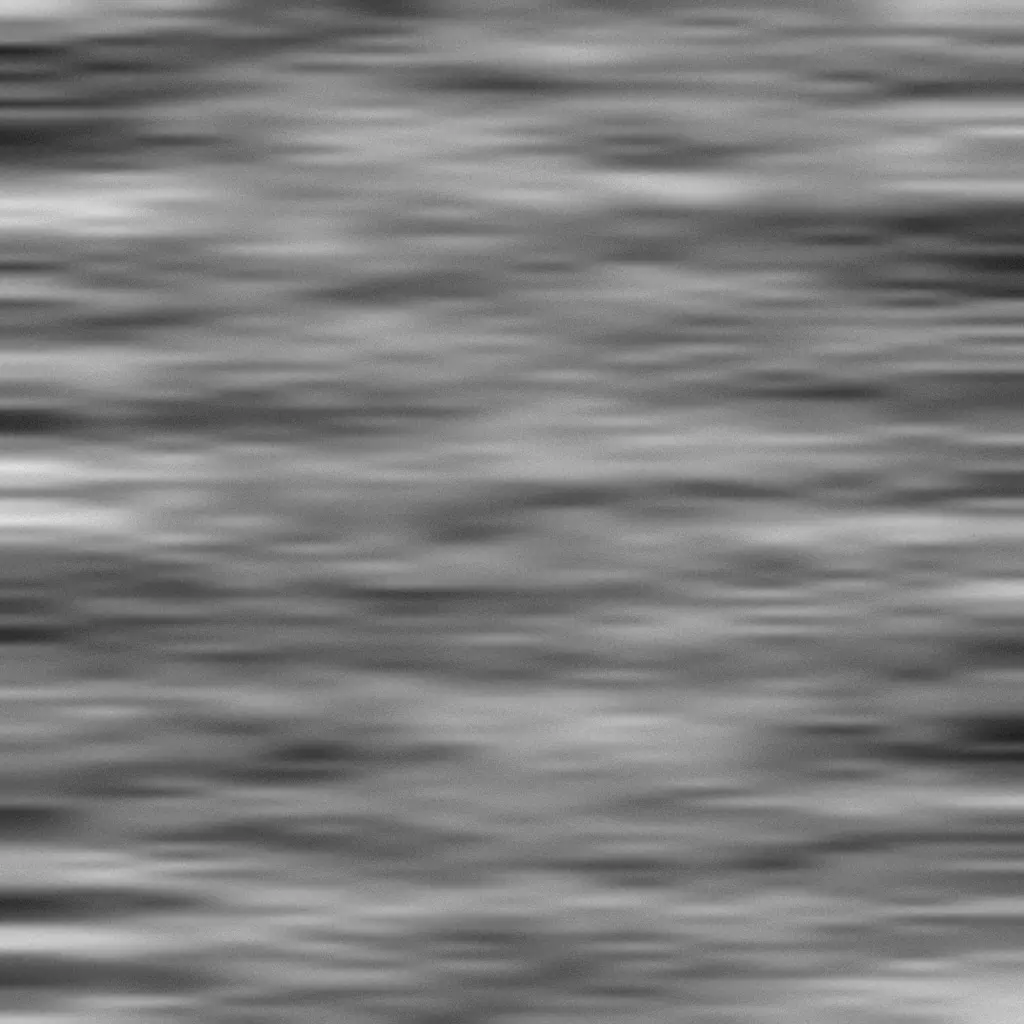
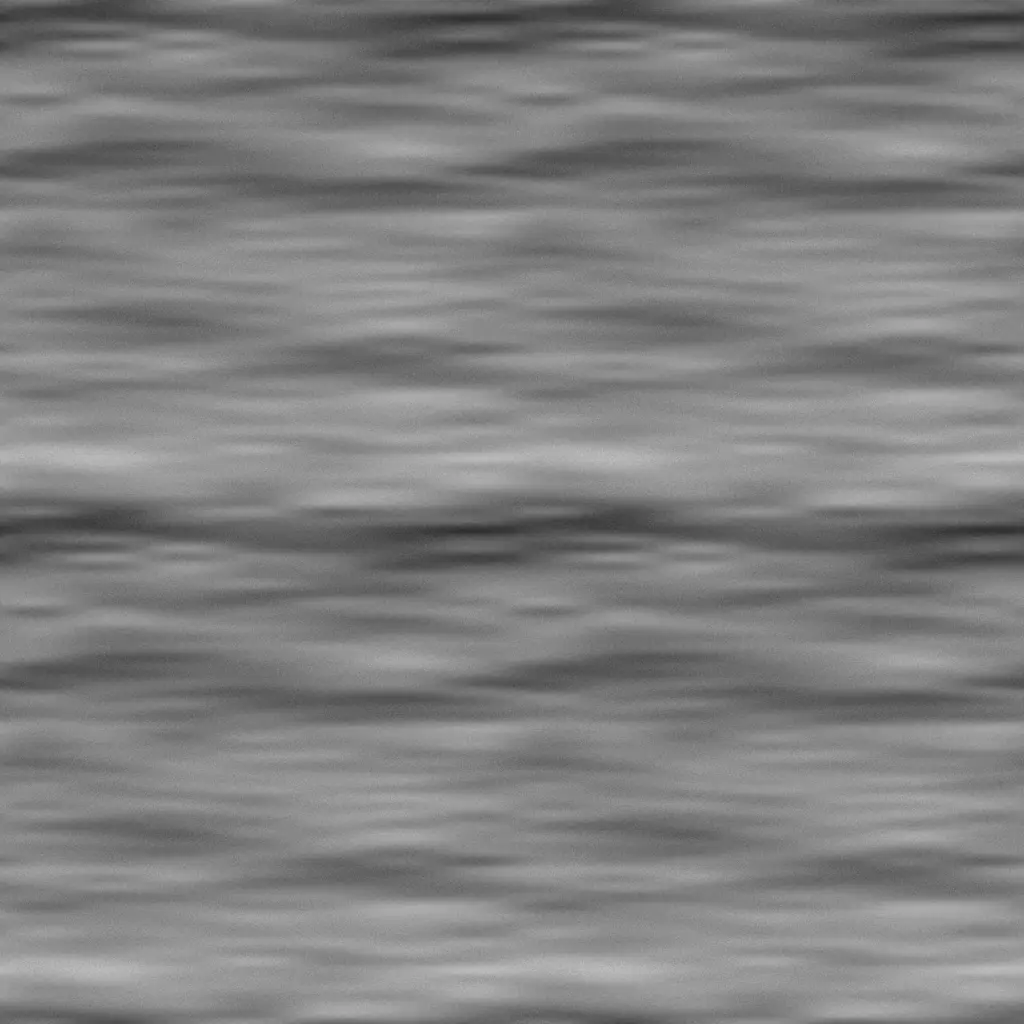
Make the brushwork tile without a seam
The brush overlay now covers the whole page, and its tile did not wrap: the
left and right halves were crossfaded, so the two edges still met on
unrelated strokes and a vertical seam showed every 640 pixels. Each axis is
now blended with a copy of itself shifted by half, weighted so both edges end
on the same strokes, and the tile wraps both ways.

Claude-Session: https://claude.ai/code/session_01EvCy1DMFZ18KAz8bSwCDr3

diff --git a/scripts/art/paint-scenery.py b/scripts/art/paint-scenery.py
@@ -348,12 +348,21 @@ def paint_meadow(w=2400, h=800):
 
 
 # ---------------------------------------------------------------------------------------------------------------
-# Brushwork on its own, in grey: broad sideways strokes laid over the doll's weather skies (CSS blends it softly),
-# so every sky looks painted whatever its colour. It tiles side to side.
+# Brushwork on its own, in grey: broad sideways strokes laid over the whole painted sky (CSS blends it softly), so
+# every weather looks painted whatever its colour. It tiles both ways without a seam: each axis is blended with a
+# copy of itself shifted by half, weighted so that both edges end on the same strokes.
+def seamless(a):
+    for axis in (1, 0):
+        n = a.shape[axis]
+        t = np.abs(np.linspace(-1, 1, n, dtype=np.float32))
+        t = t[None, :] if axis == 1 else t[:, None]
+        a = a * (1 - t) + np.roll(a, n // 2, axis=axis) * t
+    return a
+
+
 def paint_brush(w=1024, h=1024):
-    a = (stretched(h, w * 2, 220, 34, SEED + 600) - .5) * .9 + (stretched(h, w * 2, 70, 9, SEED + 601) - .5) * .45
-    a = a[:, :w] * np.linspace(1, 0, w)[None, :] + a[:, w:] * np.linspace(0, 1, w)[None, :]
-    a = a + grain(h, w, SEED + 602, .12)
+    a = (stretched(h, w, 220, 34, SEED + 600) - .5) * .9 + (stretched(h, w, 70, 9, SEED + 601) - .5) * .45
+    a = seamless(a) + grain(h, w, SEED + 602, .12)
     return np.clip(.5 + a * .5, 0, 1)
 
 
